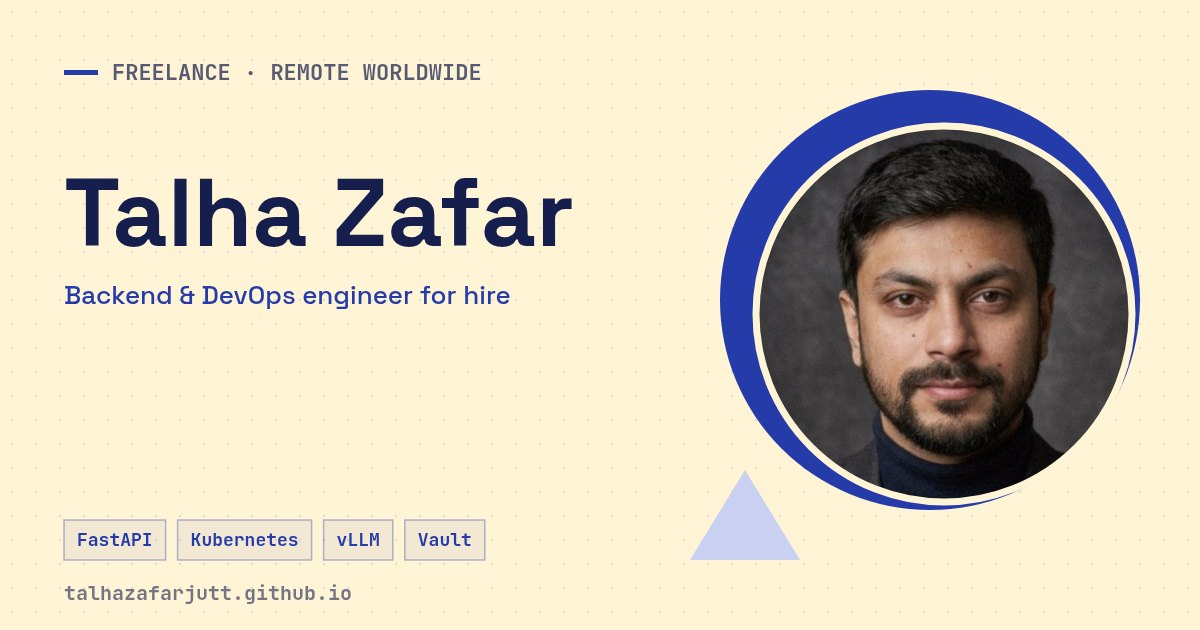
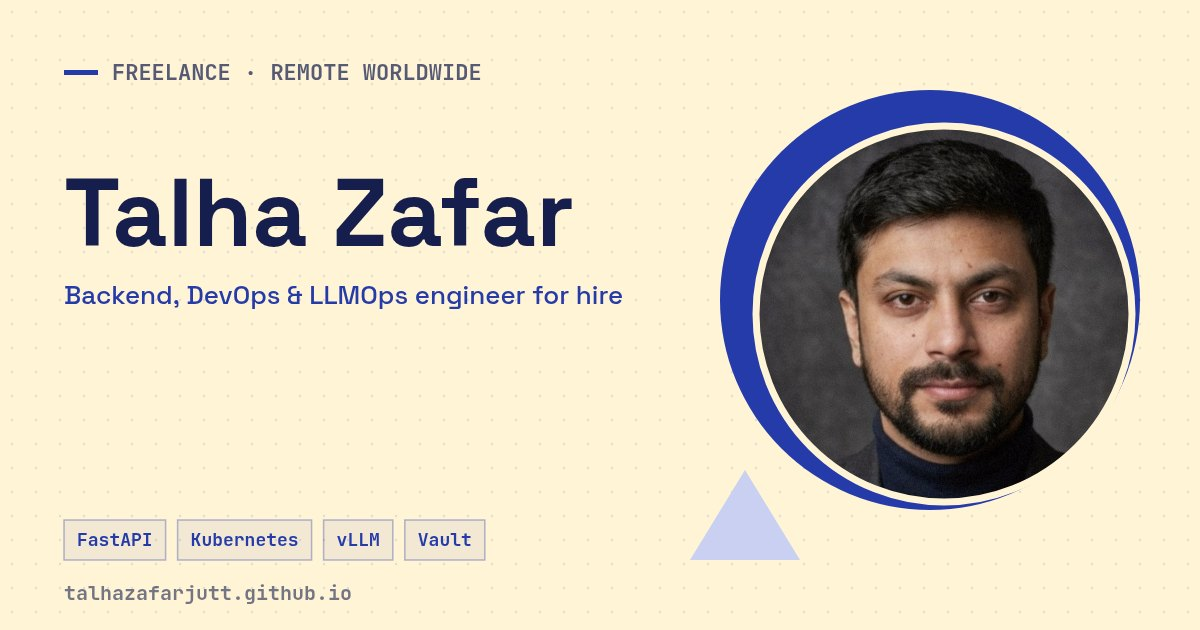
Dashboard map limits + refresh; LLMOps positioning and llms.txt
Visitor dashboard (cloudflare/visits-worker.js, needs wrangler deploy):
- One copy of the world: noWrap tiles, maxBounds with full viscosity,
  no worldCopyJump, so the map no longer repeats side by side.
- Zoom bounded: out to the level where the world fills the map box
  (recomputed on resize), in to level 10 (city; IP geolocation is no
  more precise than that).
- Refresh button fetches fresh rows from D1 (no-store, cache-busting
  query); shares one in-flight request with the 60 s auto-refresh and
  reports network failures.

LLM / answer-engine visibility:
- inject.py writes llms.txt from seo_pages.py: summary, services with
  figures taken from the site, all case studies, contact.
- Person JSON-LD: jobTitle and description name LLMOps; knowsAbout adds
  LLMOps, MLOps, GPU infrastructure.
- Home title/description, hidden H1 suffix, role line and the LLM
  services card say LLMOps; home share card re-rendered.

Changed region(s): [[0.1233, 0.4524, 0.5242, 0.4825]]

diff --git a/index.html b/index.html
@@ -3,10 +3,10 @@
 <head>
 <meta charset="UTF-8">
 <meta name="viewport" content="width=device-width, initial-scale=1.0">
-<meta name="description" content="Freelance backend &amp; DevOps engineer for hire: FastAPI APIs, Kubernetes, self-hosted LLM inference and security hardening. Remote worldwide — book a call.">
+<meta name="description" content="Freelance backend, DevOps &amp; LLMOps engineer: FastAPI APIs, Kubernetes, self-hosted LLM inference (vLLM on GPUs) and security. Remote — book a call.">
 <meta http-equiv="X-Content-Type-Options" content="nosniff">
 <meta http-equiv="Content-Security-Policy" content="default-src 'self'; script-src 'self' https://assets.calendly.com; style-src 'self' 'unsafe-inline' https://fonts.googleapis.com https://assets.calendly.com; font-src 'self' https://fonts.gstatic.com https://assets.calendly.com; img-src 'self' data: https:; frame-src https://calendly.com; connect-src 'self' https://visits.talha-zafar-j.workers.dev https://calendly.com https://api.calendly.com https://assets.calendly.com;">
-<title>Talha Zafar — Freelance Backend &amp; DevOps Engineer | FastAPI · K8s</title>
+<title>Talha Zafar — Freelance Backend, DevOps &amp; LLMOps Engineer</title>
 <!-- SEO:start (generated from seo_pages.py) -->
 <link rel="canonical" href="https://talhazafarjutt.github.io/">
 <meta name="author" content="Talha Zafar">
@@ -18,16 +18,16 @@
 <meta property="og:site_name" content="Talha Zafar">
 <meta property="og:locale" content="en_US">
 <meta property="og:type" content="website">
-<meta property="og:title" content="Talha Zafar — Freelance Backend &amp; DevOps Engineer | FastAPI · K8s">
-<meta property="og:description" content="Freelance backend &amp; DevOps engineer for hire: FastAPI APIs, Kubernetes, self-hosted LLM inference and security hardening. Remote worldwide — book a call.">
+<meta property="og:title" content="Talha Zafar — Freelance Backend, DevOps &amp; LLMOps Engineer">
+<meta property="og:description" content="Freelance backend, DevOps &amp; LLMOps engineer: FastAPI APIs, Kubernetes, self-hosted LLM inference (vLLM on GPUs) and security. Remote — book a call.">
 <meta property="og:url" content="https://talhazafarjutt.github.io/">
 <meta property="og:image" content="https://talhazafarjutt.github.io/img/og/home.jpg">
 <meta property="og:image:width" content="1200">
 <meta property="og:image:height" content="630">
 <meta property="og:image:alt" content="Talha Zafar — Backend &amp; DevOps Engineer">
 <meta name="twitter:card" content="summary_large_image">
-<meta name="twitter:title" content="Talha Zafar — Freelance Backend &amp; DevOps Engineer | FastAPI · K8s">
-<meta name="twitter:description" content="Freelance backend &amp; DevOps engineer for hire: FastAPI APIs, Kubernetes, self-hosted LLM inference and security hardening. Remote worldwide — book a call.">
+<meta name="twitter:title" content="Talha Zafar — Freelance Backend, DevOps &amp; LLMOps Engineer">
+<meta name="twitter:description" content="Freelance backend, DevOps &amp; LLMOps engineer: FastAPI APIs, Kubernetes, self-hosted LLM inference (vLLM on GPUs) and security. Remote — book a call.">
 <meta name="twitter:image" content="https://talhazafarjutt.github.io/img/og/home.jpg">
 <script type="application/ld+json">
 {
@@ -37,8 +37,8 @@
    "@type": "ProfilePage",
    "@id": "https://talhazafarjutt.github.io/#profile",
    "url": "https://talhazafarjutt.github.io/",
-   "name": "Talha Zafar — Freelance Backend & DevOps Engineer | FastAPI · K8s",
-   "description": "Freelance backend & DevOps engineer for hire: FastAPI APIs, Kubernetes, self-hosted LLM inference and security hardening. Remote worldwide — book a call.",
+   "name": "Talha Zafar — Freelance Backend, DevOps & LLMOps Engineer",
+   "description": "Freelance backend, DevOps & LLMOps engineer: FastAPI APIs, Kubernetes, self-hosted LLM inference (vLLM on GPUs) and security. Remote — book a call.",
    "inLanguage": "en",
    "dateModified": "2026-10-15",
    "mainEntity": {
@@ -54,8 +54,8 @@
    "name": "Talha Zafar",
    "url": "https://talhazafarjutt.github.io/",
    "image": "https://talhazafarjutt.github.io/img/talha-zafar.jpg",
-   "jobTitle": "Backend & DevOps Engineer",
-   "description": "Freelance backend and DevOps engineer: Python/FastAPI microservices, Kubernetes, self-hosted LLM inference and security hardening.",
+   "jobTitle": "Backend, DevOps & LLMOps Engineer",
+   "description": "Freelance backend, DevOps and LLMOps engineer: Python/FastAPI microservices, Kubernetes, self-hosted LLM inference (vLLM on GPUs) and security hardening.",
    "email": "mailto:talha.zafar.j@gmail.com",
    "address": {
     "@type": "PostalAddress",
@@ -75,8 +75,11 @@
     "K3s",
     "Docker",
     "DevOps",
+    "LLMOps",
+    "MLOps",
     "vLLM",
     "LLM inference",
+    "GPU infrastructure",
     "gRPC",
     "Redis",
     "PostgreSQL",
@@ -146,9 +149,9 @@
     <h1 id="name-block">
       <span id="name-a">TALHA</span>
       <span id="name-b">ZAFAR</span>
-      <span class="sr-only"> — Freelance Backend &amp; DevOps Engineer</span>
+      <span class="sr-only"> — Freelance Backend, DevOps &amp; LLMOps Engineer</span>
     </h1>
-    <p id="role-line">Backend &amp; DevOps Engineer · FastAPI · Kubernetes · LLMs</p>
+    <p id="role-line">Backend &amp; DevOps Engineer · FastAPI · Kubernetes · LLMOps</p>
     <p class="hero-desc">I build and run backend and AI infrastructure that doesn't fall over: fast APIs, Kubernetes clusters, self-hosted LLM inference and the security around them. <strong>4+ years</strong> in production.</p>
     <div class="hero-btns">
       <a href="#contact" class="btn btn-fill">Book a 30-min call →</a>
@@ -187,7 +190,7 @@
         <div class="sp-accent"></div>
         <div class="help-out">Run your own LLM inference at a fraction of cloud cost</div>
         <p class="help-desc">I stand up production GPU inference end to end — vLLM on bare-metal K3s, a FastAPI load-balancer, and an API gateway with key auth and rate limits. One cluster I built — 4× V100 32 GB — serves 10k+ requests a day at ~$180/month, against ~$8,800 for AWS's closest 4× V100 instance, which has half the VRAM.</p>
-        <div class="sp-tags"><span>vLLM</span><span>K3s</span><span>GPU</span><span>FastAPI</span></div>
+        <div class="sp-tags"><span>LLMOps</span><span>vLLM</span><span>K3s</span><span>GPU</span></div>
         <a href="blog/gpu-inference.html" class="bc-link" aria-label="See how it was done: Running LLM Inference on 4× Tesla V100 — Bare Metal to Production">See how →</a>
       </div>
 

diff --git a/cloudflare/visits-worker.js b/cloudflare/visits-worker.js
@@ -199,6 +199,7 @@ header{display:flex;flex-wrap:wrap;gap:.8rem;align-items:center;justify-content:
 h1{font-size:1rem;margin:0}h1 span{color:var(--dim);font-weight:400}
 .ctl{display:flex;gap:.7rem;align-items:center;flex-wrap:wrap;font:600 .7rem var(--mono);color:var(--dim)}
 select,.ctl button{background:#000;color:#fff;border:1px solid var(--line);padding:.45rem .6rem;font:600 .72rem var(--mono);cursor:pointer}
+.ctl button:hover:not(:disabled){border-color:var(--cyan)}.ctl button:disabled{opacity:.55;cursor:progress}
 .ctl label{display:flex;gap:.35rem;align-items:center;cursor:pointer}
 main{padding:1.2rem 1.4rem 2rem;display:grid;gap:1rem}
 .kpis{display:grid;grid-template-columns:repeat(5,minmax(0,1fr));gap:.8rem}
@@ -228,6 +229,7 @@ td.n{text-align:right;font-family:var(--mono);color:var(--cyan);white-space:nowr
 <header><h1>Portfolio visitors <span>· talhazafarjutt.github.io</span></h1>
 <div class="ctl"><label>Range <select id="range"><option value="1">24 hours</option><option value="7" selected>7 days</option><option value="30">30 days</option></select></label>
 <label><input type="checkbox" id="bots" checked> Hide bots</label><span id="updated"></span>
+<button type="button" id="refresh" title="Fetch the latest visits from the database">Refresh</button>
 <form method="post" action="/logout"><button type="submit">Sign out</button></form></div></header>
 <main>
 <section class="kpis">
@@ -256,11 +258,27 @@ function dashboard() {
   const OWN = 'talhazafarjutt.github.io';
   let rows = [], fitted = false;
 
-  const map = L.map('map', { worldCopyJump: true }).setView([25, 15], 2);
+  // One copy of the world: no wrapping, panning stops at its edges, and zoom is bounded —
+  // out to "world fills the box" (so no repeated maps or empty bands), in to city level
+  // (IP geolocation is city-accurate at best; street zoom would be false precision).
+  const WORLD = [[-85.05, -180], [85.05, 180]];
+  const MAX_ZOOM = 10;
+  const map = L.map('map', {
+    worldCopyJump: false, maxBounds: WORLD, maxBoundsViscosity: 1, maxZoom: MAX_ZOOM,
+  });
   L.tileLayer('https://tile.openstreetmap.org/{z}/{x}/{y}.png', {
-    maxZoom: 18, referrerPolicy: 'strict-origin-when-cross-origin',
+    noWrap: true, bounds: WORLD, maxZoom: MAX_ZOOM, referrerPolicy: 'strict-origin-when-cross-origin',
     attribution: '&copy; <a href="https://www.openstreetmap.org/copyright">OpenStreetMap</a> contributors',
   }).addTo(map);
+  // lowest zoom at which the 256px-per-tile world covers the whole map box
+  function fitMinZoom() {
+    const size = map.getSize(), z = Math.ceil(Math.log2(Math.max(size.x, size.y) / 256));
+    map.setMinZoom(z);
+    if (map.getZoom() < z) map.setZoom(z);
+    return z;
+  }
+  map.setView([25, 15], fitMinZoom());
+  window.addEventListener('resize', () => { map.invalidateSize(); fitMinZoom(); });
   const layer = L.layerGroup().addTo(map);
 
   const el = (tag, cls, text) => { const e = document.createElement(tag); if (cls) e.className = cls; if (text != null) e.textContent = text; return e; };
@@ -344,6 +362,7 @@ function dashboard() {
     }
     $('nogeo').textContent = noGeo ? noGeo + ' without coordinates (logged before the map existed)' : '';
     if (pts.length && !fitted) { map.fitBounds(pts, { padding: [40, 40], maxZoom: 5 }); fitted = true; }
+    else if (!pts.length && !fitted) map.setView([25, 15], map.getMinZoom());
 
     // views per day
     const days = new Map();
@@ -364,14 +383,28 @@ function dashboard() {
     ]));
   }
 
-  async function load() {
-    const res = await fetch('/api/visits?days=' + $('range').value, { credentials: 'same-origin', cache: 'no-store' });
-    if (res.status === 401) { location.reload(); return; }
-    if (!res.ok) { $('updated').textContent = 'Load failed (' + res.status + ')'; return; }
-    rows = (await res.json()).rows || [];
-    render();
-    $('updated').textContent = 'updated ' + new Date().toLocaleTimeString([], { hour: '2-digit', minute: '2-digit' });
+  let loading = null;
+  function load() {
+    // one request at a time: the 60 s timer and the button share it
+    loading ??= (async () => {
+      const btn = $('refresh');
+      btn.disabled = true; btn.textContent = 'Refreshing…';
+      try {
+        const res = await fetch('/api/visits?days=' + $('range').value + '&t=' + Date.now(), { credentials: 'same-origin', cache: 'no-store' });
+        if (res.status === 401) { location.reload(); return; }
+        if (!res.ok) { $('updated').textContent = 'Load failed (' + res.status + ')'; return; }
+        rows = (await res.json()).rows || [];
+        render();
+        $('updated').textContent = 'updated ' + new Date().toLocaleTimeString([], { hour: '2-digit', minute: '2-digit', second: '2-digit' });
+      } catch {
+        $('updated').textContent = 'Load failed (network)';
+      } finally {
+        btn.disabled = false; btn.textContent = 'Refresh'; loading = null;
+      }
+    })();
+    return loading;
   }
+  $('refresh').addEventListener('click', load);
   $('range').addEventListener('change', () => { fitted = false; load(); });
   $('bots').addEventListener('change', render);
   load();

diff --git a/tools/seo/inject.py b/tools/seo/inject.py
@@ -8,13 +8,13 @@ from seo_pages import PAGES, SITE, TODAY
 esc = lambda s: html.escape(s, quote=True)
 PERSON = {
     "@type": "Person", "@id": SITE + "/#person", "name": "Talha Zafar", "url": SITE + "/",
-    "image": SITE + "/img/talha-zafar.jpg", "jobTitle": "Backend & DevOps Engineer",
-    "description": "Freelance backend and DevOps engineer: Python/FastAPI microservices, Kubernetes, self-hosted LLM inference and security hardening.",
+    "image": SITE + "/img/talha-zafar.jpg", "jobTitle": "Backend, DevOps & LLMOps Engineer",
+    "description": "Freelance backend, DevOps and LLMOps engineer: Python/FastAPI microservices, Kubernetes, self-hosted LLM inference (vLLM on GPUs) and security hardening.",
     "email": "mailto:talha.zafar.j@gmail.com",
     "address": {"@type": "PostalAddress", "addressLocality": "Lahore", "addressCountry": "PK"},
     "sameAs": ["https://github.com/talhazafarjutt", "https://www.linkedin.com/in/talhazafarj"],
-    "knowsAbout": ["Python", "FastAPI", "Django", "NestJS", "Kubernetes", "K3s", "Docker", "DevOps", "vLLM",
-                   "LLM inference", "gRPC", "Redis", "PostgreSQL", "HashiCorp Vault", "Application security", "GDPR"],
+    "knowsAbout": ["Python", "FastAPI", "Django", "NestJS", "Kubernetes", "K3s", "Docker", "DevOps", "LLMOps", "MLOps", "vLLM",
+                   "LLM inference", "GPU infrastructure", "gRPC", "Redis", "PostgreSQL", "HashiCorp Vault", "Application security", "GDPR"],
 }
 
 
@@ -104,3 +104,28 @@ open(f"{R}/sitemap.xml", "w").write('<?xml version="1.0" encoding="UTF-8"?>\n'
     '<urlset xmlns="http://www.sitemaps.org/schemas/sitemap/0.9" xmlns:image="http://www.google.com/schemas/sitemap-image/1.1">\n'
     + urls + "\n</urlset>\n")
 print("sitemap.xml:", len(PAGES), "URLs")
+
+# llms.txt (llmstxt.org): a plain summary for AI assistants and answer engines. Facts only from the site.
+articles = "\n".join(f"- [{p['headline']}]({p['url']}): {p['desc']}" for p in PAGES if p["type"] != "website")
+open(f"{R}/llms.txt", "w").write(f"""# Talha Zafar — Freelance Backend, DevOps & LLMOps Engineer
+
+> Freelance backend, DevOps and LLMOps engineer based in Lahore, Pakistan (PKT, UTC+5), working remotely worldwide.
+> 4+ years in production since Sep 2022: Python/FastAPI microservices, Kubernetes (K3s), self-hosted LLM inference
+> with vLLM on GPUs, and security hardening (HashiCorp Vault, OWASP, GDPR). Available for freelance projects.
+
+## What he does
+- LLMOps / self-hosted LLM inference: vLLM on bare-metal K3s, a FastAPI load balancer and an nginx API gateway with key auth and rate limits. One 4× Tesla V100 (32 GB) cluster served 10k+ requests a day at ~$180/month, against ~$8,800/month for AWS's closest 4× V100 instance.
+- Backend APIs: Python and Node microservices holding sub-100ms P95 at 10k+ daily requests; gRPC between six services (40% less internal API overhead than REST); Redis caching that cut database load 60%.
+- Security and DevOps: zero-trust secrets with HashiCorp Vault, GitHub Actions CI/CD with SAST, container and secret scanning; stopped a live Stripe carding attack (fraud rate 12% → 0.02%).
+
+## Case studies
+{articles}
+
+## Contact
+- Book a 30-minute call: https://calendly.com/talha-zafar-j/30min
+- Email: talha.zafar.j@gmail.com
+- LinkedIn: https://www.linkedin.com/in/talhazafarj
+- GitHub: https://github.com/talhazafarjutt
+- Portfolio: {SITE}/
+""")
+print("llms.txt: written")

diff --git a/tools/seo/seo_pages.py b/tools/seo/seo_pages.py
@@ -4,10 +4,10 @@ TODAY = "2026-10-15"
 
 PAGES = [
     dict(file="index.html", url=SITE + "/", og="img/og/home.jpg", type="website",
-         title="Talha Zafar — Freelance Backend & DevOps Engineer | FastAPI · K8s",
-         desc="Freelance backend & DevOps engineer for hire: FastAPI APIs, Kubernetes, self-hosted LLM inference and security hardening. Remote worldwide — book a call.",
+         title="Talha Zafar — Freelance Backend, DevOps & LLMOps Engineer",
+         desc="Freelance backend, DevOps & LLMOps engineer: FastAPI APIs, Kubernetes, self-hosted LLM inference (vLLM on GPUs) and security. Remote — book a call.",
          card=dict(kicker="Freelance · Remote worldwide", title="Talha Zafar", size=96,
-                   sub="Backend & DevOps engineer for hire",
+                   sub="Backend, DevOps & LLMOps engineer for hire",
                    tags=["FastAPI", "Kubernetes", "vLLM", "Vault"])),
     dict(file="blog/civitas-fraud-platform.html", og="img/og/civitas-fraud-platform.jpg", published="2026-09-11",
          headline="How a Fraud Platform Can Look Healthy While Catching Nothing",

diff --git a/CLAUDE.md b/CLAUDE.md
@@ -42,7 +42,8 @@ new HTML with stale CSS/JS/images. Every local asset link carries `?v=YYYYMMDDnn
 ## SEO
 - Page titles, descriptions, publish dates and share-card text live in **`tools/seo/seo_pages.py`** (single source of truth).
 - `python3 tools/seo/inject.py` rewrites the `<!-- SEO:start … SEO:end -->` block in every page (canonical, Open Graph, Twitter,
-  JSON-LD: ProfilePage/Person/WebSite on home, BlogPosting + BreadcrumbList on articles) and regenerates `sitemap.xml`. Idempotent.
+  JSON-LD: ProfilePage/Person/WebSite on home, BlogPosting + BreadcrumbList on articles) and regenerates `sitemap.xml` and
+  `llms.txt` (plain-text summary for AI assistants; its facts must match the site). Idempotent.
 - `python3 tools/seo/cards.py` renders the 1200×630 share cards in `img/og/` + favicon PNGs (headless Chrome).
 - **New article:** add it to `seo_pages.py` → run `cards.py` and `inject.py` → add its card to the homepage blog grid → bump `?v=`.
 - Keep titles ≤ ~65 chars and descriptions ≤ ~155; only state facts the page itself contains.
@@ -73,7 +74,7 @@ or send directly.
 | `CLAUDE.md` | This file |
 | `js/scene3d.js` + `css/scene3d.css` | Dependency-free 3D figure engine used by every blog post (canvas 2D, auto-fit camera) |
 | `js/visit.js` | Visit log: one `sendBeacon` per page view to the Cloudflare Worker `visits.talha-zafar-j.workers.dev` (D1 db `portfolio`, table `visits`, 30-day cron cleanup). Skips GPC/DNT; `?notrack` opts this browser out. Worker URL must stay in `connect-src` of every page with a CSP |
-| `cloudflare/visits-worker.js` | Source of the `visits` Worker (pasted into the Cloudflare editor, not served by Pages): beacon endpoint, password-protected map dashboard at `/dashboard` (secret `DASH_PASSWORD`), `/api/visits`, daily cleanup. Render visitor data with `textContent` only |
+| `cloudflare/visits-worker.js` | Source of the `visits` Worker (pasted into the Cloudflare editor, not served by Pages): beacon endpoint, password-protected map dashboard at `/dashboard` (secret `DASH_PASSWORD`; one non-wrapping world, zoom bounded from world-fits-box to city level 10, Refresh button + 60 s auto-refresh), `/api/visits`, daily cleanup. Render visitor data with `textContent` only |
 | `js/scenes/*.js` | One scene per post: nodes, edges, modes, `tick()`. Facts in tooltips/notes must come from that post |
 
 ## Content Updates
